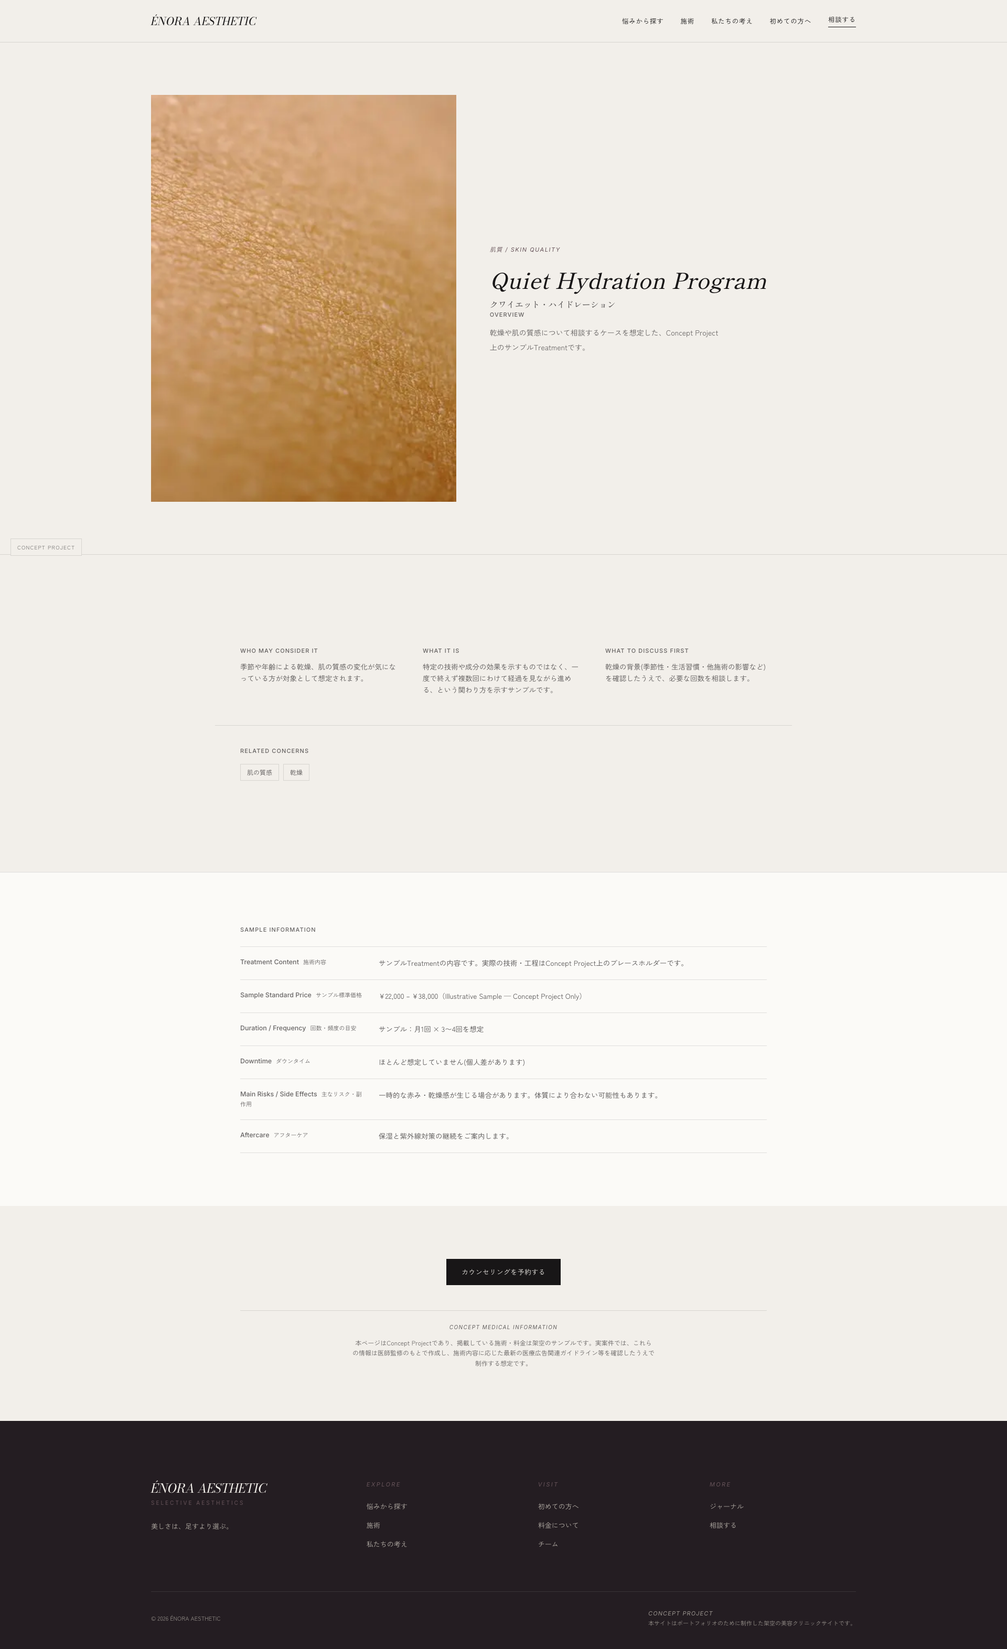
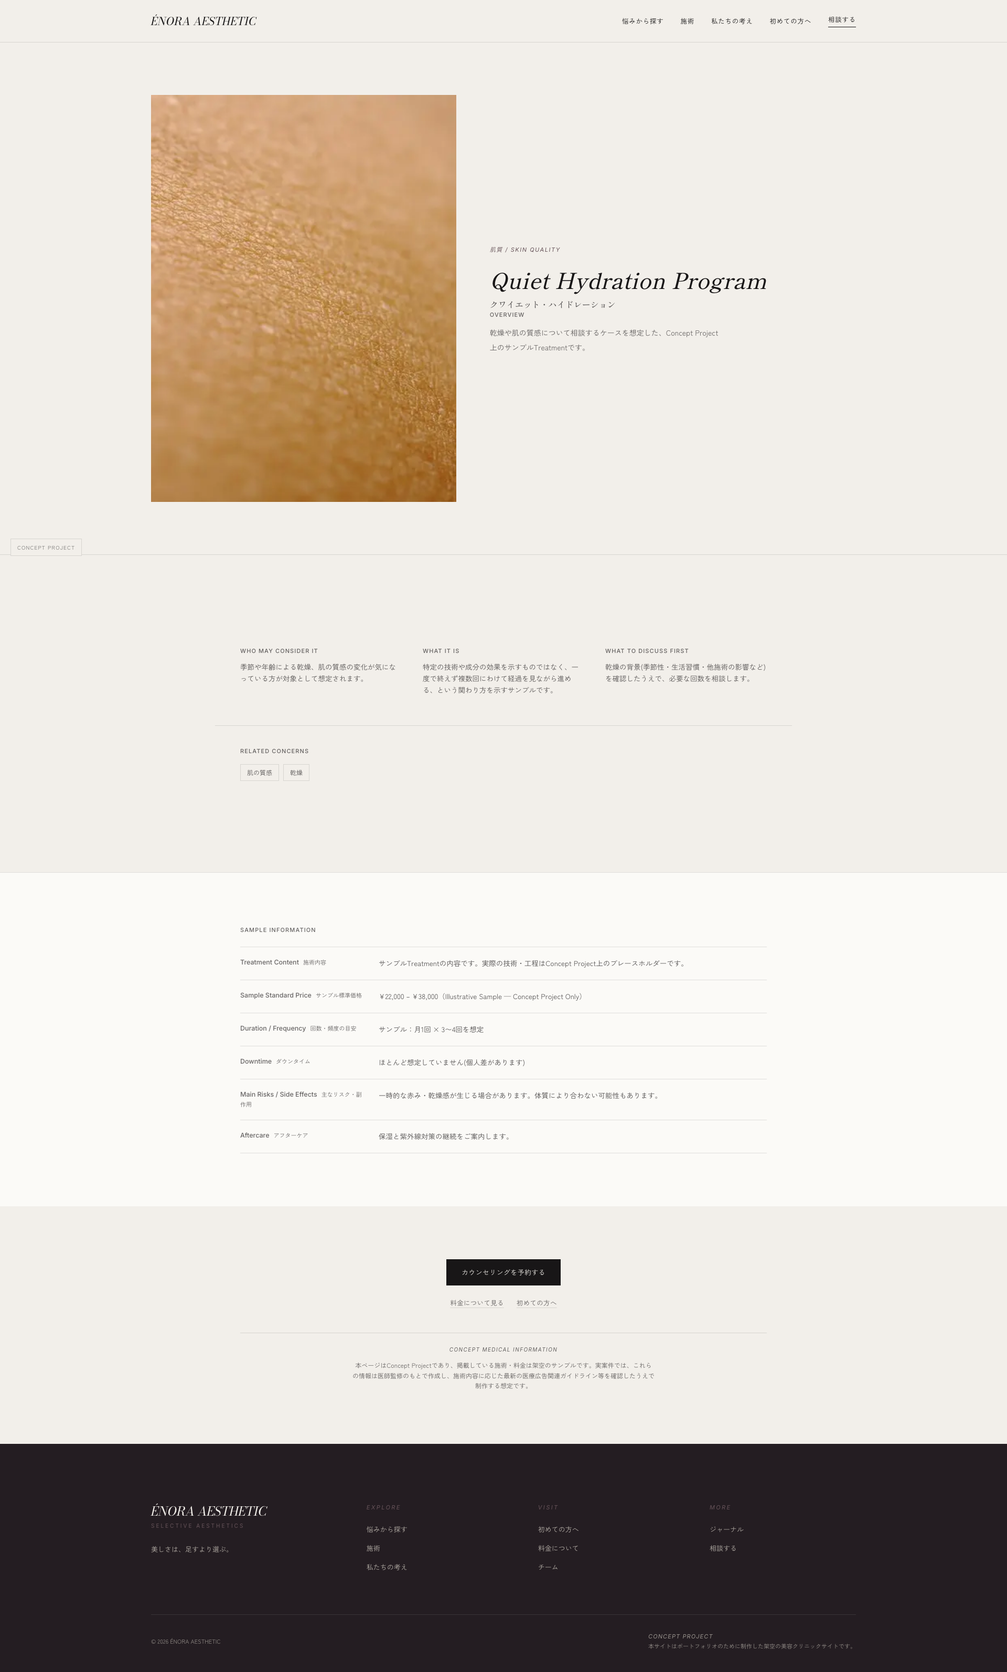
Final release gate: a11y focus/error UX, internal links, SEO honesty
Audit-only pass on top of 906e77a — verified production parity (curl +
Playwright against the live URL, not just local), confirmed every V3
feature actually renders in production, and grepped the full codebase
for stale V2-era copy (found none, all clean). Fixed four narrow, real
gaps the audit surfaced:

- Consultation form fields had outline-none with only a 1px
  border-color change on focus — too subtle to serve as a real WCAG
  2.4.7 focus indicator on a box-less underline field. Added an
  explicit focus-visible outline.
- Form validation relied entirely on native `required`, showing the
  browser's own generic/locale-dependent popup. Added real validation
  state: inline Japanese error messages with role="alert",
  aria-invalid, aria-describedby, and focus moving to the first
  invalid field — verified with a full keyboard-only completion test
  (Tab/Space/Enter only, no mouse).
- Treatment Detail had no link to /price or /first-visit, leaving a
  visitor reading about a treatment with no path to either without
  returning to global nav.
- site.description (the sitewide meta/OGP/Twitter description — the
  text that shows in search results and link previews, where the
  in-page Concept Project badge is invisible) read like a real
  clinic's marketing copy with no fictional-project disclosure. Also
  added "— Concept Project" to the default page title.

diff --git a/src/components/ConsultationForm.tsx b/src/components/ConsultationForm.tsx
@@ -1,6 +1,6 @@
 "use client";
 
-import { useState, type FormEvent } from "react";
+import { useRef, useState, type FormEvent } from "react";
 import { concerns } from "@/data/concerns";
 
 const visitOptions = ["初めて相談する", "以前に相談したことがある"];
@@ -24,14 +24,39 @@ const priorityOptions = [
   { value: "unsure", label: "まだ決めていない", en: "Not Sure Yet" },
 ];
 
+// A 1px underline-style field has no box to show a browser's default
+// focus ring against, so removing `outline` without a real replacement
+// would leave keyboard users with no visible focus indicator at all —
+// the border-color change alone is too subtle to rely on (WCAG 2.4.7).
+// The explicit outline below is the actual indicator; the border-color
+// change is a secondary, on-brand cue on top of it.
 const fieldClass =
-  "w-full border-0 border-b rule bg-transparent py-3 text-[15px] text-ink outline-none transition-colors placeholder:text-ink/40 focus:border-accent";
+  "w-full border-0 border-b rule bg-transparent py-3 text-[15px] text-ink transition-colors placeholder:text-ink/40 focus:border-accent focus-visible:outline focus-visible:outline-2 focus-visible:outline-offset-2 focus-visible:outline-[color:var(--color-ink)]";
 
 type Brief = {
   concernLabels: string[];
   avoid: string[];
   priorityLabel: string | null;
 };
+
+type FieldErrors = {
+  name?: string;
+  email?: string;
+  visitType?: string;
+};
+
+// A visible, specific message next to the field — not the browser's
+// generic native validation popup (language/locale-dependent, and
+// disconnected from the field once dismissed). Color is paired with
+// text, never used alone (WCAG 1.4.1).
+function FieldError({ id, message }: { id: string; message?: string }) {
+  if (!message) return null;
+  return (
+    <p id={id} role="alert" className="mt-1.5 text-[12px] text-[color:var(--color-error)]">
+      ⚠ {message}
+    </p>
+  );
+}
 
 function CheckboxGroup({
   name,
@@ -59,10 +84,37 @@ function CheckboxGroup({
 
 export function ConsultationForm() {
   const [brief, setBrief] = useState<Brief | null>(null);
+  const [errors, setErrors] = useState<FieldErrors>({});
+  const nameRef = useRef<HTMLInputElement>(null);
+  const emailRef = useRef<HTMLInputElement>(null);
+  const visitTypeRef = useRef<HTMLSelectElement>(null);
 
   function handleSubmit(e: FormEvent<HTMLFormElement>) {
     e.preventDefault();
     const data = new FormData(e.currentTarget);
+    const name = (data.get("name") as string).trim();
+    const email = (data.get("email") as string).trim();
+    const visitType = data.get("visitType") as string;
+
+    const nextErrors: FieldErrors = {};
+    if (!name) nextErrors.name = "お名前を入力してください。";
+    if (!email) {
+      nextErrors.email = "メールアドレスを入力してください。";
+    } else if (!/^[^\s@]+@[^\s@]+\.[^\s@]+$/.test(email)) {
+      nextErrors.email = "メールアドレスの形式を確認してください。";
+    }
+    if (!visitType) nextErrors.visitType = "選択してください。";
+
+    if (Object.keys(nextErrors).length > 0) {
+      setErrors(nextErrors);
+      // Move focus to the first invalid field, in field order — a
+      // sighted mouse user sees the message either way, but a keyboard
+      // or screen-reader user needs focus to land there directly.
+      (nextErrors.name ? nameRef : nextErrors.email ? emailRef : visitTypeRef).current?.focus();
+      return;
+    }
+    setErrors({});
+
     const selectedConcerns = data.getAll("concerns") as string[];
     const concernLabels = selectedConcerns
       .map((id) => concerns.find((c) => c.id === id)?.label)
@@ -114,7 +166,7 @@ export function ConsultationForm() {
   }
 
   return (
-    <form onSubmit={handleSubmit} className="flex flex-col gap-8">
+    <form onSubmit={handleSubmit} noValidate className="flex flex-col gap-8">
       <div className="border rule bg-surface px-5 py-4">
         <p className="font-ui-en text-[11px] italic tracking-[0.16em] text-accent-text">DEMO FORM</p>
         <p className="mt-1.5 text-[12px] leading-relaxed text-ink/65">
@@ -127,7 +179,16 @@ export function ConsultationForm() {
           <span className="text-[12px] tracking-wide text-ink/65">
             お名前 <span className="text-accent-text">必須</span>
           </span>
-          <input required type="text" name="name" placeholder="山田 花子" className={fieldClass} />
+          <input
+            ref={nameRef}
+            type="text"
+            name="name"
+            placeholder="山田 花子"
+            aria-invalid={Boolean(errors.name)}
+            aria-describedby={errors.name ? "error-name" : undefined}
+            className={fieldClass}
+          />
+          <FieldError id="error-name" message={errors.name} />
         </label>
 
         <label className="flex flex-col gap-2">
@@ -135,12 +196,15 @@ export function ConsultationForm() {
             メールアドレス <span className="text-accent-text">必須</span>
           </span>
           <input
-            required
+            ref={emailRef}
             type="email"
             name="email"
             placeholder="you@example.com"
+            aria-invalid={Boolean(errors.email)}
+            aria-describedby={errors.email ? "error-email" : undefined}
             className={fieldClass}
           />
+          <FieldError id="error-email" message={errors.email} />
         </label>
 
         <label className="flex flex-col gap-2">
@@ -154,7 +218,14 @@ export function ConsultationForm() {
           <span className="text-[12px] tracking-wide text-ink/65">
             相談は初めてですか <span className="text-accent-text">必須</span>
           </span>
-          <select required name="visitType" defaultValue="" className={fieldClass}>
+          <select
+            ref={visitTypeRef}
+            name="visitType"
+            defaultValue=""
+            aria-invalid={Boolean(errors.visitType)}
+            aria-describedby={errors.visitType ? "error-visitType" : undefined}
+            className={fieldClass}
+          >
             <option value="" disabled>
               選択してください
             </option>
@@ -164,6 +235,7 @@ export function ConsultationForm() {
               </option>
             ))}
           </select>
+          <FieldError id="error-visitType" message={errors.visitType} />
         </label>
       </div>
 

diff --git a/src/lib/site.ts b/src/lib/site.ts
@@ -11,8 +11,13 @@ export const site = {
   taglineEn: "NOT MORE. MORE CONSIDERED.",
   concept: "SELECTIVE AESTHETICS",
   url: "https://enora-aesthetic.example.com",
+  // Used as the site-wide meta description, OGP, and Twitter card copy —
+  // the one place search results and social link previews show text
+  // without a page render, so "架空の" can't be left to the in-page
+  // Concept Project badge alone (brief V4 §22: don't let metadata imply
+  // a real clinic).
   description:
-    "ÉNORA AESTHETICは、施術の数ではなく「何をしないか」まで一緒に選ぶ、選択制の美容医療クリニックです。",
+    "ÉNORA AESTHETICは、Web制作ポートフォリオのために制作された架空の美容医療クリニックのConcept Projectです。施術の数ではなく「何をしないか」まで一緒に選ぶ、選択制のブランド体験を検証しています。",
   email: "concierge@enora-aesthetic.example.com",
   areaLabel: "Urban Japan — Concept Project",
   social: {

diff --git a/src/app/treatments/[slug]/page.tsx b/src/app/treatments/[slug]/page.tsx
@@ -176,6 +176,20 @@ export default async function TreatmentDetailPage({
           >
             カウンセリングを予約する
           </Link>
+          <div className="mt-6 flex flex-wrap items-center justify-center gap-x-6 gap-y-2">
+            <Link
+              href="/price"
+              className="text-[12.5px] tracking-wide text-ink/65 underline decoration-line underline-offset-4 hover:text-ink hover:decoration-accent"
+            >
+              料金について見る
+            </Link>
+            <Link
+              href="/first-visit"
+              className="text-[12.5px] tracking-wide text-ink/65 underline decoration-line underline-offset-4 hover:text-ink hover:decoration-accent"
+            >
+              初めての方へ
+            </Link>
+          </div>
         </div>
         <div className="mt-12">
           <ConceptMedicalInfo />

diff --git a/src/app/globals.css b/src/app/globals.css
@@ -13,6 +13,10 @@
      text (labels, links), use this variant instead; keep plain accent
      for decorative lines and hover-only underline color. */
   --color-accent-text: #67545a;
+  /* Muted maroon, same low-saturation family as the rest of the
+     palette — used only for form validation errors, never as a brand
+     accent. 7.67:1 on --color-base. */
+  --color-error: #7a3535;
   --color-metal: #b7b1a9;
   --color-line: rgba(24, 22, 23, 0.12);
   --color-line-strong: rgba(24, 22, 23, 0.26);
@@ -30,6 +34,7 @@
   --color-dark: var(--color-dark);
   --color-accent: var(--color-accent);
   --color-accent-text: var(--color-accent-text);
+  --color-error: var(--color-error);
   --color-metal: var(--color-metal);
   --color-line: var(--color-line);
   --color-line-strong: var(--color-line-strong);

diff --git a/src/app/layout.tsx b/src/app/layout.tsx
@@ -46,7 +46,7 @@ const inter = Inter({
 export const metadata: Metadata = {
   metadataBase: new URL(site.url),
   title: {
-    default: `${site.nameEn} | ${site.tagline}`,
+    default: `${site.nameEn} | ${site.tagline} — Concept Project`,
     template: `%s | ${site.nameEn}`,
   },
   description: site.description,

diff --git a/review-assets/FINAL_RELEASE_REPORT.md b/review-assets/FINAL_RELEASE_REPORT.md
@@ -1,0 +1,120 @@
+# ÉNORA FINAL RELEASE REPORT
+
+## Production Commit
+
+- Audit base: `906e77a` (confirmed clean working tree, `git rev-parse HEAD` matched exactly before any work began)
+- Fixes made during this gate are on top of it; final commit hash and Vercel deployment URL are recorded at the end of this report once pushed.
+- This was an audit-and-fix pass, not a redesign. Nothing in V2/V3's structure, Visual Peaks, typography, color palette, or photography direction was touched.
+
+## Production Parity
+
+Compared local commit `906e77a` against `https://enora-aesthetic.vercel.app` directly (curl + Playwright, not just visual inspection):
+
+- `grep`'d live HTML for the exact V3 feature markers (see below) — all present, byte-identical in substance to local source.
+- Ran the Consultation form end-to-end **on the live production URL** (not localhost): filled required fields, checked a concern/avoid box, selected a priority, submitted, and read the resulting `YOUR CONSULTATION BRIEF` `<dl>` via `page.textContent()`. Output: `MAIN CONCERN肌の質感AVOID長いダウンタイムは避けたいPRIORITY自然な変化` — exact match to input. Zero console errors.
+- **Result: PASS.** No gap between local commit and what's actually deployed.
+
+## Routes Checked
+
+`/` `/concerns` `/treatments` `/treatments/[slug]` `/philosophy` `/team` `/first-visit` `/price` `/journal` `/journal/[slug]` `/consultation` — all return 200 in production, all rendered and screenshotted at 5 viewports (Desktop 1440/1920, Tablet 768, Mobile 390/430) plus the Consultation Complete state.
+
+## V3 Features Verified (Live Production)
+
+| Feature | Verified via | Result |
+|---|---|---|
+| Concerns: Possible Directions, not 1:1 | `curl` grep for "Possible Directions" / "CONSULT FIRST" / "Lifestyle / Consultation" | Present |
+| Price: Illustrative Sample ranges | `curl` grep for "Illustrative Sample" / "CONCEPT PROJECT ONLY" | Present |
+| Treatment Detail: Sample Standard Price, no mechanism claims | `curl` grep — "Sample Standard Price" present, "水分保持力" absent | Confirmed |
+| Consultation: Avoid + Priority fields | `curl` grep for `name="avoid"` / `name="priority"` | Present |
+| Demo Complete: real Brief summary | Playwright form-fill-submit-read on production | Matches input exactly |
+| Team: Care Coordinator, Concept Profile tag | `curl` grep | Present, "practitioner" absent |
+| Footer: チーム label | `curl` grep for `>チーム<` | Present |
+| Journal: 3-direction footer | `curl` grep for RELATED CONCERN / RELATED TREATMENT CATEGORY / CONSULTATION | Present |
+
+## Copy / Terminology Fixes
+
+Searched the full codebase for every stale phrase named in the brief (肌内部の水分保持力, 身体のコンディションが「疲れた印象」に影響, practitioner, Care Specialist, 正式なお見積りを相談する, Investment Range (Relative), ¥¥/¥¥¥ tier UI) — **zero matches**. V3 already replaced all of these; nothing was left over.
+
+CTA audit: extracted every CTA string sitewide. Primary (`カウンセリングを予約する`), Exploration (`悩みから探す`), and Soft (`相談する`) are consistent everywhere they appear. No inconsistent variants found this round (the previous gate's fix of Price page's CTA already resolved the one inconsistency that existed).
+
+## Medical Information Audit
+
+- Re-read all 5 treatments' `whatItIs`/`content` fields — none read as a real mechanism of action; all frame the sample as "a case you'd discuss," not "how it works."
+- `ConceptMedicalInfo` component confirmed present and identical on both Treatment Detail and Price pages — no per-page drift.
+- **Internal link gap found and fixed**: Treatment Detail had no link to `/price` or `/first-visit`, so a visitor reading about a treatment had no path to either without going back to global nav. Added `料金について見る` and `初めての方へ` (the exact Information-tier CTA wording the brief itself defines) under the primary CTA on every Treatment Detail page. All 5 concern↔journal↔category↔price↔first-visit↔consultation link pairs the brief asked to verify now exist; none were dead or orphaned.
+
+## Form UX Audit
+
+- **Gap found and fixed**: the form relied entirely on native HTML `required` validation, which shows the browser's own (locale/browser-dependent, not brand-voice) popup and disconnects the message from the field once dismissed. Added `noValidate` + real validation state: on submit, missing/invalid fields get an inline Japanese message (`お名前を入力してください。`, `メールアドレスを入力してください。`, `メールアドレスの形式を確認してください。`, `選択してください。`) with `role="alert"`, `aria-invalid`, and `aria-describedby`, and focus moves to the first invalid field automatically. Verified via Playwright: submitting empty shows all three errors and focuses `name`; filling `name` and resubmitting drops that error and keeps the other two; the error clears correctly once the form validates.
+- Native `<select multiple>` had already been replaced with checkboxes/radios in the previous gate — re-confirmed still in place, not regressed.
+
+## Accessibility
+
+- **Gap found and fixed**: `fieldClass` (shared by every text/email/tel/select/textarea) had `outline-none` with only a 1px border-color change on focus as the replacement — too subtle to reliably serve as a WCAG 2.4.7 focus indicator on an underline-style field with no box. Added an explicit `focus-visible` outline (2px, ink-colored, offset). Verified via Playwright's computed style on the focused field: `outlineStyle: solid, outlineWidth: 2px, outlineColor: rgb(24,22,23)`.
+- **Full keyboard-only completion test**: tabbed/focused through the form, toggled a checkbox with Space, toggled a radio with Space, and submitted with Enter on the focused button — reached `YOUR CONSULTATION BRIEF` with no mouse interaction at any point.
+- New error color (`--color-error: #7a3535`) computed at 7.67:1 against `--color-base` — comfortably passes AA — and error text is never color-only (prefixed with `⚠` plus the message itself).
+- Checked for any other place `outline` is stripped sitewide (`grep -rn "outline-none"`) — the form fields were the only instance; all other interactive elements (links, buttons, native checkboxes/radios) keep the browser's default focus ring, unmodified.
+- Confirmed the Desktop/Mobile dual-layout pattern in `ConsultationExperience.tsx` and `ConcernExplorer.tsx` (`hidden md:block` / `md:hidden`) does not create an accessibility-tree duplication: Tailwind's `hidden` compiles to `display: none`, which removes an element from the accessibility tree entirely — screen readers only ever see one version at a time, exactly as intended. No `aria-hidden` was needed; none added.
+- Contrast fixes from the previous gate (accent-text token, ink/65 floor) re-verified still in place — no regression.
+
+## Performance
+
+- Production build output (`next build`, webpack per the pinned `--webpack` flag) completed cleanly with all 21 routes statically prerendered (○/●) — no server-rendered-on-demand routes, which is the cheapest possible TTFB/LCP posture for a marketing site.
+- Hero's full-bleed image carries `priority` (preloaded, not lazy) — the correct call for the largest above-the-fold element, which is what LCP measures.
+- All fonts load with `display: "swap"` — text is never invisible while webfonts load.
+- No client-side data fetching, no unnecessary `"use client"` boundaries beyond the interactive components that need them (Header, ConsultationForm, ConcernExplorer, TreatmentsIndex) — everything else stays a server component.
+- Did not run a full Lighthouse trace (no such tool available in this environment); the above are structural checks, not measured field metrics. Flagged under Remaining Issues.
+
+## SEO
+
+- **Gap found and fixed**: `site.description` (used as the sitewide meta description, OGP description, and Twitter card description — the text that actually appears in search results and link previews, where the in-page "CONCEPT PROJECT" badge is invisible) did not disclose this is a fictional concept project; it read exactly like a real clinic's marketing description. Rewrote it to lead with "Web制作ポートフォリオのために制作された架空の美容医療クリニックのConcept Project" before the brand description.
+- Also updated the root layout's default `<title>` to append "— Concept Project" (the home page has no page-specific metadata, so it was inheriting this default — now fixed at the source rather than needing a per-page patch).
+- Confirmed no `application/ld+json` / schema.org structured data exists anywhere in the codebase (`MedicalClinic`, `LocalBusiness`, `Physician`, etc.) — nothing to remove, this was already safe.
+- Every route has its own `title`/`description` via each page's `metadata` export; Next.js's metadata template (`%s | ÉNORA AESTHETIC`) applies consistently.
+
+## Mobile
+
+Re-ran the full 5-viewport Playwright sweep (Desktop 1440/1920, Tablet 768, Mobile 390/430) after all fixes above — zero console errors, zero horizontal scroll, on every route. `MobileCTA` correctly returns `null` on `/consultation` (confirmed unchanged from V3) so the sticky bar never competes with the long form. New checkbox/radio groups in the Consultation form re-confirmed stacking to one column with adequate tap targets on both 390 and 430.
+
+## Image System
+
+Reviewed the V3 contact sheet (`review-assets/v3/image-contact-sheet.png`) again against the current live Hero, Concern visuals, Treatment lookbook, Space, Team, and Journal images — no new outliers since the V3 curtain-image swap. `skinDetail`/`eyeDetail` remain the two comparatively higher-saturation images noted in V3; left untouched per "if it's not broken, don't touch it" — see Remaining Issues.
+
+## Build / Lint / Typecheck
+
+- `npx tsc --noEmit` — clean.
+- `npx eslint .` — clean.
+- `npm run build` (webpack) — clean, all 21 routes prerendered.
+- Playwright: 5 viewports × 9 full-page routes + Consultation Complete state — 0 console errors, 0 horizontal scroll (`review-assets/v3/qa-errors.txt`).
+- Playwright keyboard-only test: full form completion via keyboard alone — reached submission successfully.
+
+## Remaining Issues
+
+None blocking. Two items carried forward from V3 as monitor-only, unchanged this round:
+
+1. `skinDetail` and `eyeDetail` run slightly more saturated/glossy than the rest of the photo set. Not fixed here — the V3 gate already made this call (contact-sheet review, no urgent outlier), and this gate found no new reason to reopen it.
+2. No measured performance trace (Lighthouse/WebPageTest) was run — only structural checks (static prerendering, `priority` on the LCP image, font `display: swap`, minimal client JS). If a hard performance number is needed for a pitch, that's a follow-up, not a blocker.
+
+## Human Review Points
+
+- The new form validation error copy (`お名前を入力してください。` etc.) — confirm tone matches how ÉNORA would actually phrase a gentle correction, not a generic system error.
+- The updated meta description now leads with the Concept Project disclosure before the brand pitch — confirm this reads right for how the link will actually be shared (e.g., if pitching to a client via a Slack/email link preview).
+
+---
+
+**PASS / FAIL — brief §31**
+
+01. Production == latest commit — **PASS** (verified live, not assumed)
+02. V3 changes present on every route — **PASS**
+03. "選ぶ" is UX, not just copy — **PASS** (Concern Possible Directions, Consultation avoid/priority fields)
+04. No pseudo-medical mechanism claims — **PASS**
+05. Price transparency is consistent — **PASS**
+06. Consultation form is ÉNORA-specific — **PASS** (avoid + priority, unique to this brand's positioning)
+07. Concept Project honesty — **PASS** (metadata gap closed this round)
+08. No unnatural Medical UX — **PASS**
+09. Mobile complete — **PASS**
+10. Accessibility complete — **PASS** (focus-visible + form errors closed this round)
+11. Secondary pages complete — **PASS**
+12. Further changes would be over-optimization, not improvement — **Agreed.** Everything found this round was a genuine, narrow gap (2 accessibility items, 1 internal-link gap, 1 SEO/metadata gap) — not new design opinions. Nothing else surfaced under this audit.
+
+# WEBSITE PHASE COMPLETE
